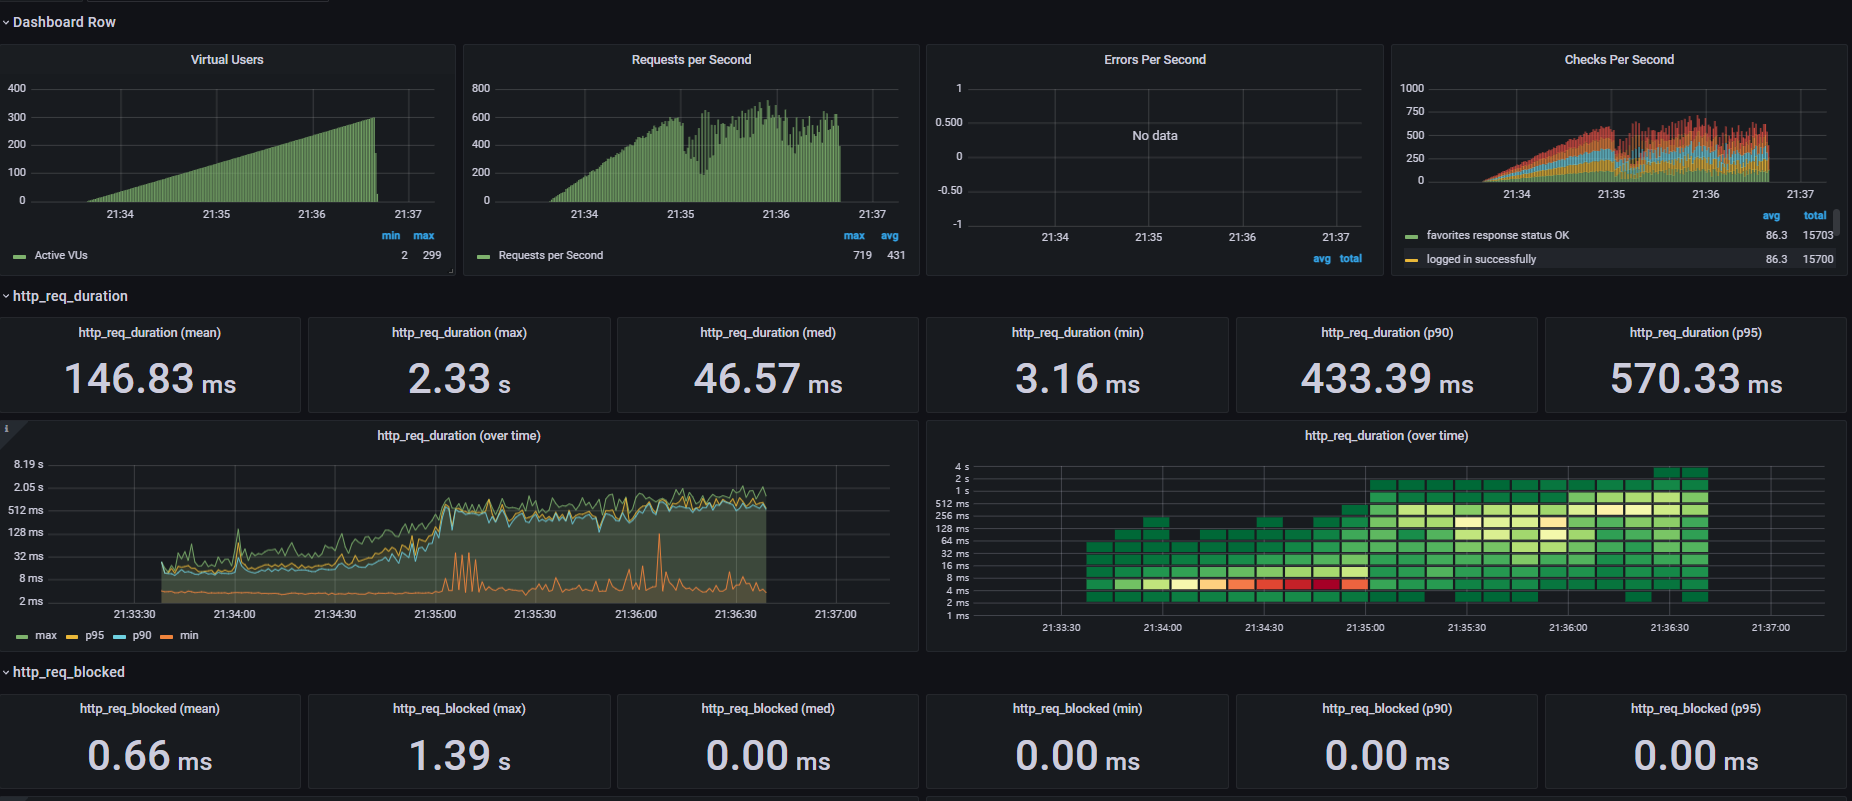
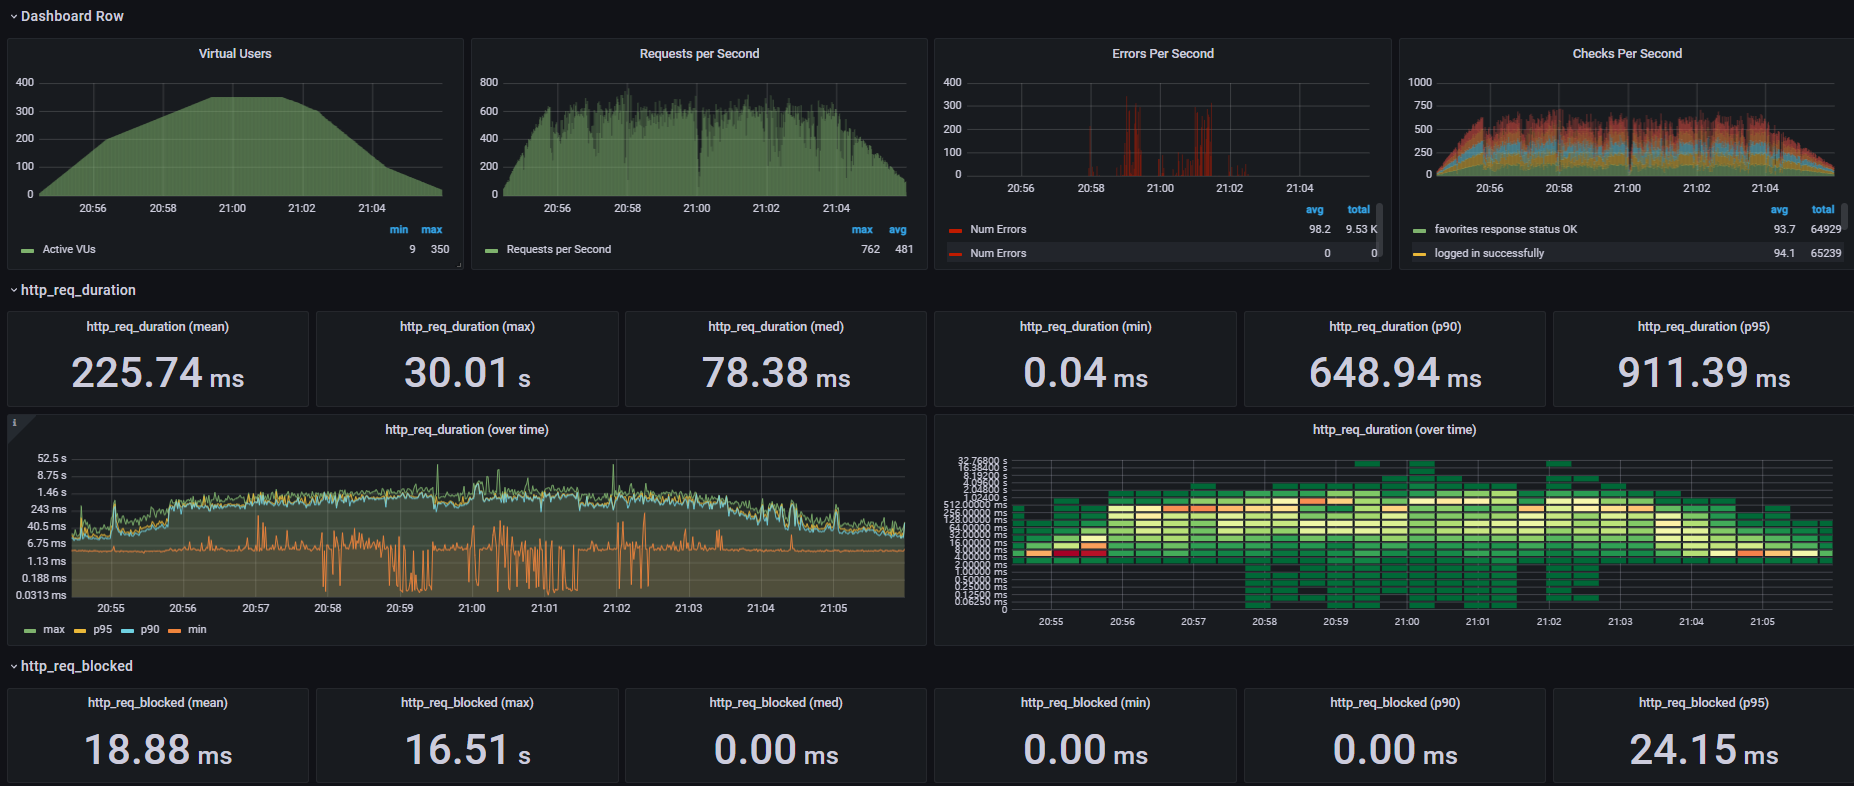
chore : stress 테스트 결과 이미지, 스크립트 변경(부하줄어들도록 추가)

diff --git a/result/stress/stress.js b/result/stress/stress.js
@@ -1,56 +1,60 @@
 import http from 'k6/http';
-import { check, group, sleep, fail } from 'k6';
+import {check, group, sleep, fail} from 'k6';
 
 export const options = {
-	stages: [
-		      { duration: '1m', target:  100 }, 
-		      { duration: '1m', target:  200 }, 
-		      { duration: '1m', target:  300 },
-		  
-		    ],
-	thresholds: {
-		      http_req_duration: ['p(99)<1500'], 
-		      http_req_duration: ['p(95)<1000'],	
-		    },
+    stages: [
+        {duration: '1m', target: 100},
+        {duration: '1m', target: 200},
+        {duration: '1m', target: 250},
+        {duration: '1m', target: 300},
+        {duration: '1m', target: 350},
+        {duration: '2m', target: 350},
+        {duration: '1m', target: 300},
+        {duration: '1m', target: 200},
+        {duration: '1m', target: 100},
+        {duration: '1m', target: 50},
+        {duration: '1m', target: 0}
+    ],
+    thresholds: {
+        http_req_duration: ['p(99)<1000']
+    },
 };
 
 const BASE_URL = 'https://subway.kangseonghyo.kro.kr'
 const USERNAME = 'test@test.com';
 const PASSWORD = '1q2w3e4r';
 
-export default function ()  {
-     // 1. 메인페이지에 접속한다.
-	let main = http.get(BASE_URL);
-	 check(main, { 'main page access': (resp) => resp.status == 200 });
+export default function () {
+    // 1. 메인페이지에 접속한다.
+    let main = http.get(BASE_URL);
+    check(main, {'main page access': (resp) => resp.status == 200});
 
-     // 2. 로그인 한다. (엑세스토큰 발급)
-	 const payload = JSON.stringify({
-		             email: USERNAME,
-		             password: PASSWORD
-		        });
+    // 2. 로그인 한다. (엑세스토큰 발급)
+    const payload = JSON.stringify({
+        email: USERNAME,
+        password: PASSWORD
+    });
 
-	  const params = {  headers: {'Content-Type': 'application/json' }};
+    const params = {headers: {'Content-Type': 'application/json'}};
 
+    let loginRes = http.post(BASE_URL + '/login/token', payload, params);
+    check(loginRes, {'logged in successfully': (resp) => resp.json('accessToken') !== ''});
 
-          let loginRes = http.post(BASE_URL+'/login/token',payload,params);
-	  check(loginRes, { 'logged in successfully': (resp) => resp.json('accessToken') !== '' });
+    //3. 즐겨찾기를 조회한다.
+    let authHeaders = {headers: {Authorization: `Bearer ${loginRes.json('accessToken')}`}};
 
-     //3. 즐겨찾기를 조회한다.
-	  let authHeaders = { headers:{ Authorization: `Bearer ${loginRes.json('accessToken')}` }};
+    let favorites = http.get(BASE_URL + '/favorites', authHeaders);
+    check(favorites, {'favorites response status OK': (resp) => resp.status == 200});
 
-          let favorites = http.get(BASE_URL+'/favorites', authHeaders);
-	   check(favorites, { 'favorites response status OK': (resp) => resp.status == 200} );
-
-
-     // 4. 경로검색으로 이동한다.
-	   let path = http.get(BASE_URL+'/path');
-	    check(path, { 'path page moved': (resp) => resp.status == 200} );
+    // 4. 경로검색으로 이동한다.
+    let path = http.get(BASE_URL + '/path');
+    check(path, {'path page moved': (resp) => resp.status == 200});
 
 
-     // 5. 경로를 검색한다.
-	   let pathSearch = http.get(BASE_URL+'/path?source=111&target=116');
-	   check(path, { 'path search response status OK': (resp) => resp.status == 200} );
+    // 5. 경로를 검색한다.
+    let pathSearch = http.get(BASE_URL + '/path?source=111&target=116');
+    check(pathSearch, {'path search response status OK': (resp) => resp.status == 200});
 
-	   sleep(1);
+    sleep(1);
 
 };
